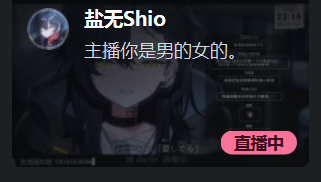
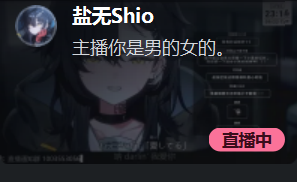
feat(v3/03): 卡片加 3D 侧转 + 重裁去掉卡外灰边（位置先定下来）
用户 2026-09-22（附红框标注截图）：倾斜角度不够；卡片的裁切没把画面对准中心，
不用保留卡片之外的灰色内容、只保留卡片；先改好位置，再来一一对应素材、更换背景。

1) 卡片图重裁：量出卡片截图里**左右各有 12px 灰边**（内容实际 x 12-308，宽 297），
   所以 crop 从 321x182 改成 **297x182 at x=12**，8 张全部重裁
   —— 这正是用户说的"卡片之外的灰色内容"
2) 卡片框按新比例改成 600x368（297:182 = 1.632），object-fit:cover 不再裁掉卡面内容
3) 加 3D 侧转：`.stage` 给 perspective 2400，每张卡 `rotationY: 12` + transformPerspective 2400
   —— 右缘向后，即左侧离镜头近，与「左边在前、遮挡右边」一致
4) 位置沿用上一轮：x = 6 + i*326、y = 640 - i*34、scale 1.000 -> 0.780、z 递减（左前右后）

lint 零 error；24fps 与 30fps 均 7.500000s。

下一步等用户指定「哪张卡对应哪段素材」和「背景换成什么」，再动素材与背景。

diff --git a/videos/dd-monitor-ce-promo/compositions/v3/18-03-hover.html b/videos/dd-monitor-ce-promo/compositions/v3/18-03-hover.html
@@ -55,11 +55,13 @@
       .head .s { margin-top: 16px; font-size: 36px; font-weight: 600; letter-spacing: .16em; color: rgba(255,255,255,.82); text-shadow: 0 2px 14px rgba(16,17,20,.24); }
       .head .bar { width: 84px; height: 4px; background: var(--accent); margin-top: 22px; transform-origin: 0 50%; }
 
-      /* 卡片队列：一排三张，从左下到右上；位置全部由 JS 用 x/y/scale 给。
-         尺寸 600x340 = 原来的两倍（原 300x200，同时按素材比例 16:9 微调高度）。 */
-      .stage { position: absolute; inset: 0; }
+      /* 卡片队列：一排五张，从左下到右上；位置全部由 JS 用 x/y/scale 给。
+         尺寸 600x340 = 原来的两倍。
+         `.stage` 给 perspective —— 卡片各自带 rotationY（用户 2026-09-22：倾斜角度不够），
+         右缘向后 = 左侧离镜头近，与「左边在前、遮挡右边」一致。 */
+      .stage { position: absolute; inset: 0; perspective: 2400px; }
       .card {
-        position: absolute; left: 0; top: 0; width: 600px; height: 340px;
+        position: absolute; left: 0; top: 0; width: 600px; height: 368px;
         border-radius: 22px; overflow: hidden;
         background: var(--card);
         border: 1px solid var(--card-edge);
@@ -135,7 +137,8 @@
         gsap.set(".vid", { opacity: 0 });
         gsap.set("#cursor", { opacity: 0, x: 1240, y: 940 });
         POS.forEach(function (p, i) {
-          gsap.set("#k" + (i + 1), { x: p.x, y: p.y, scale: p.s, zIndex: p.z, opacity: 0 });
+          gsap.set("#k" + (i + 1), { x: p.x, y: p.y, scale: p.s, zIndex: p.z, opacity: 0,
+                                     rotationY: 12, transformPerspective: 2400 });
         });
 
         /* ---- 入场：标题 + 三张卡依次浮现（0.10 / 0.29 / 0.48，落在拍上） ---- */
